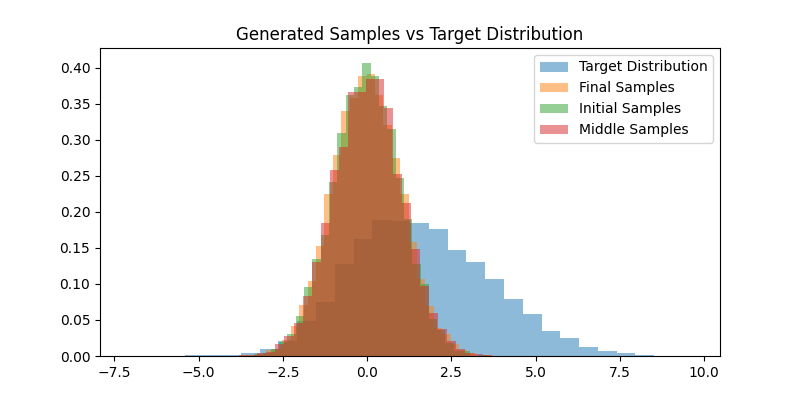
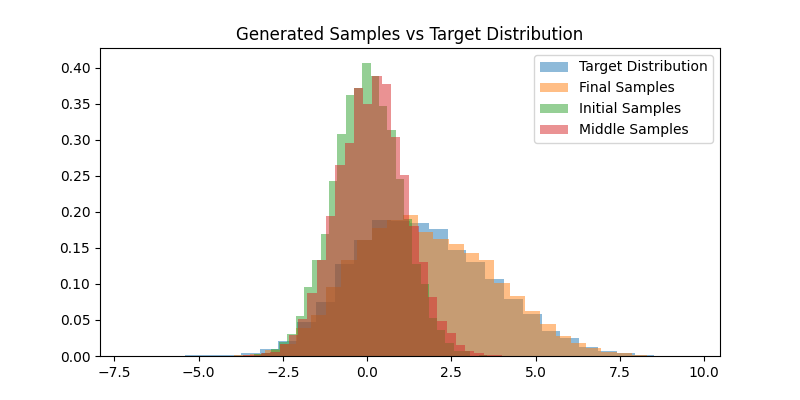
create animation

Changed region(s): [[0.3438, 0.18, 0.8125, 0.9]]

diff --git a/mcjax/process/dds.py b/mcjax/process/dds.py
@@ -1,12 +1,13 @@
 import jax
 import jax.numpy as jnp
 import jax.random as jr
-from typing import NamedTuple
 from flax.training import train_state
 import optax
 import flax.linen as nn
 import matplotlib.pyplot as plt
 from functools import partial
+from scipy.stats import gaussian_kde
+from matplotlib.animation import FFMpegWriter
 import matplotlib.animation as animation
 import pickle
 import os
@@ -89,7 +90,7 @@ def dds_loss(params, key, ou: OU, init_dist: LogDensity,
                + 2.0 * (ou.sigma**2) * lambda_Kmk * s \
                + ou.sigma * jnp.sqrt(alpha_Kmk) * eps
 
-        r_next = r_k + (2.0 * ou.sigma**2) * (lambda_Kmk / alpha_Kmk) * jnp.sum(s**2, axis=-1)
+        r_next = r_k + (2.0 * ou.sigma**2) * (lambda_Kmk**2 / alpha_Kmk) * jnp.sum(s**2, axis=-1)
         return (y_next, r_next, key), None
 
     r_0 = jnp.zeros(batch_size)
@@ -150,7 +151,7 @@ def generate_samples(params, score_fn, ou, num_samples, key):
 
 
 if __name__ == "__main__":
-    if_train = True
+    if_train = False
     model_path = 'model_params.pkl'
     K = 1000
     ou_sigma = 1.0
@@ -256,23 +257,69 @@ if __name__ == "__main__":
     )
 
     y_seq = jax.device_get(y_seq)
-    dataset = target_dist.sample(key_, 10000)
+    
 
     # plot the last distribution of y_seq against dataset
-    plt.figure(figsize=(8, 4))
-    plt.hist(dataset, bins=30, density=True, alpha=0.5, label='Target Distribution')
-    plt.hist(y_seq[-1], bins=30, density=True, alpha=0.5, label='Final Samples')
-    plt.hist(y_seq[0], bins=30, density=True, alpha=0.5, label='Initial Samples')
-    plt.hist(y_seq[K//2], bins=30, density=True, alpha=0.5, label='Middle Samples')
-    plt.title('Generated Samples vs Target Distribution')
-    plt.legend()
-    plt.savefig('generated_samples.png')
+    # dataset = target_dist.sample(key_, 10000)
+    # plt.figure(figsize=(8, 4))
+    # plt.hist(dataset, bins=30, density=True, alpha=0.5, label='Target Distribution')
+    # plt.hist(y_seq[-1], bins=30, density=True, alpha=0.5, label='Final Samples')
+    # plt.hist(y_seq[0], bins=30, density=True, alpha=0.5, label='Initial Samples')
+    # plt.hist(y_seq[K//2], bins=30, density=True, alpha=0.5, label='Middle Samples')
+    # plt.title('Generated Samples vs Target Distribution')
+    # plt.legend()
+    # plt.savefig('generated_samples.png')
 
-    # Draw the trajectory of one sample
-    plt.figure(figsize=(8, 4))
-    plt.plot(jnp.arange(K, 0, -1), y_seq[:, 0], label='Sample Trajectory')
-    plt.xlabel('Time Step')
-    plt.ylabel('Sample Trajectory')
-    plt.title('Sample Trajectory Over Time')
-    plt.legend()
-    plt.savefig('sample_trajectory.png')
+    # Modify the animation code section
+    fig, ax = plt.subplots(figsize=(10, 6))
+
+    # Generate reference distributions and KDEs
+    x = jnp.linspace(-7, 10, 1000)
+    initial_kde = gaussian_kde(init_dist.sample(jr.PRNGKey(0), 100000).flatten())
+    target_kde = gaussian_kde(target_dist.sample(jr.PRNGKey(0), 100000).flatten())
+
+    # Precompute sample KDEs for all frames
+    kde_x = jnp.linspace(-7, 10, 500)
+    frame_densities = []
+    for frame in range(K):
+        current_samples = y_seq[frame].flatten()
+        kde = gaussian_kde(current_samples)
+        frame_densities.append(kde(kde_x))
+
+    # Create static reference lines
+    ax.plot(kde_x, initial_kde(kde_x), 'b--', linewidth=2, label='Initial Distribution')
+    ax.plot(kde_x, target_kde(kde_x), 'g--', linewidth=2, label='Target Distribution')
+
+    # Initialize animated elements
+    line, = ax.plot([], [], 'r-', linewidth=2, label='Current Samples')
+    time_text = ax.text(0.02, 0.95, '', transform=ax.transAxes, fontsize=12)
+    ax.set_xlim(-7, 10)
+    ax.set_ylim(0, 0.5)
+    ax.set_xlabel('Value')
+    ax.set_ylabel('Density')
+    ax.set_title('Density Evolution During Reverse Process')
+    ax.legend(loc='upper right')
+
+    def animate(frame):
+        # Update line data
+        line.set_data(kde_x, frame_densities[frame])
+        
+        # Update time text
+        time_text.set_text(f'Step: {frame}/{K} (Time: {K-frame}/{K})')
+        
+        return line, time_text
+
+    # Create animation
+    ani = animation.FuncAnimation(
+        fig=fig,
+        func=animate,
+        frames=K,
+        interval=20,
+        blit=True
+    )
+
+    # Save animation
+    writer = FFMpegWriter(fps=30, metadata=dict(artist='Me'), bitrate=1800)
+    ani.save('density_evolution.mp4', writer=writer)
+
+    plt.close()
